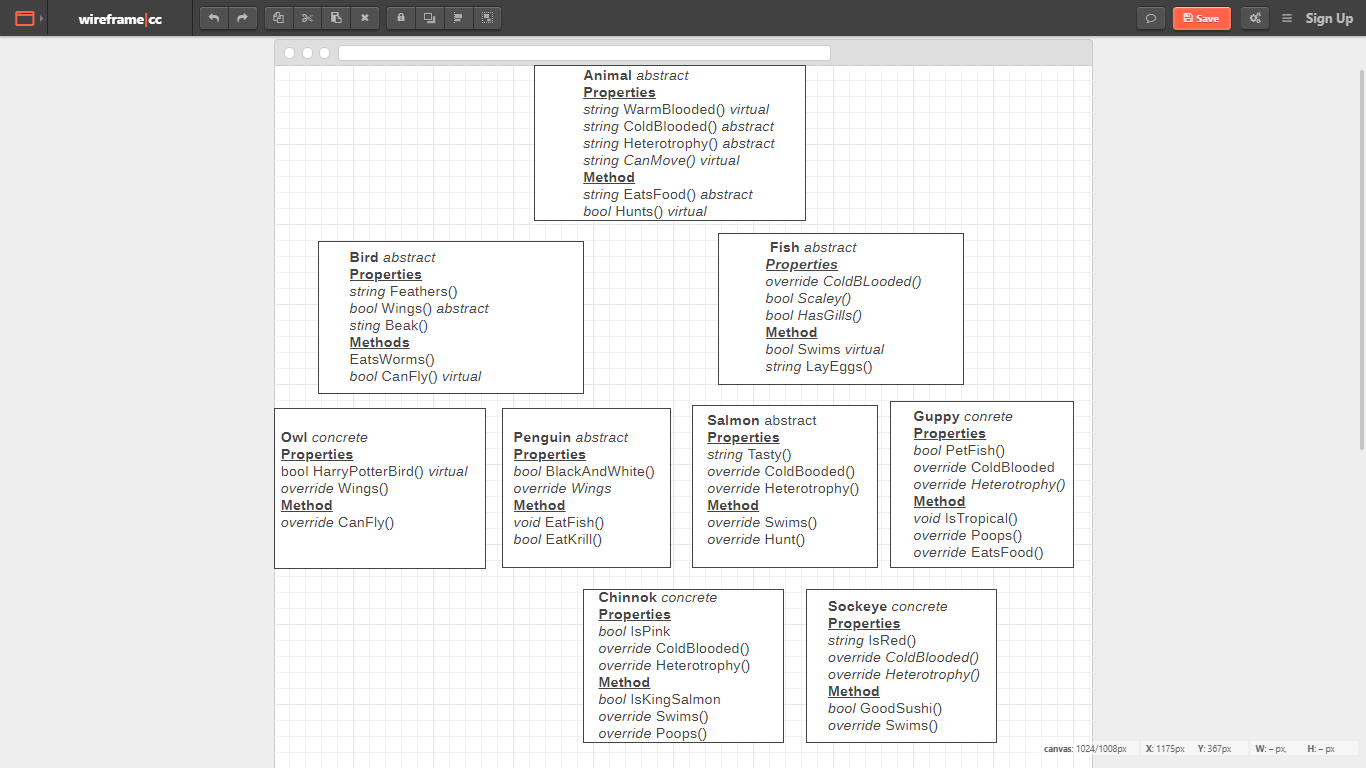
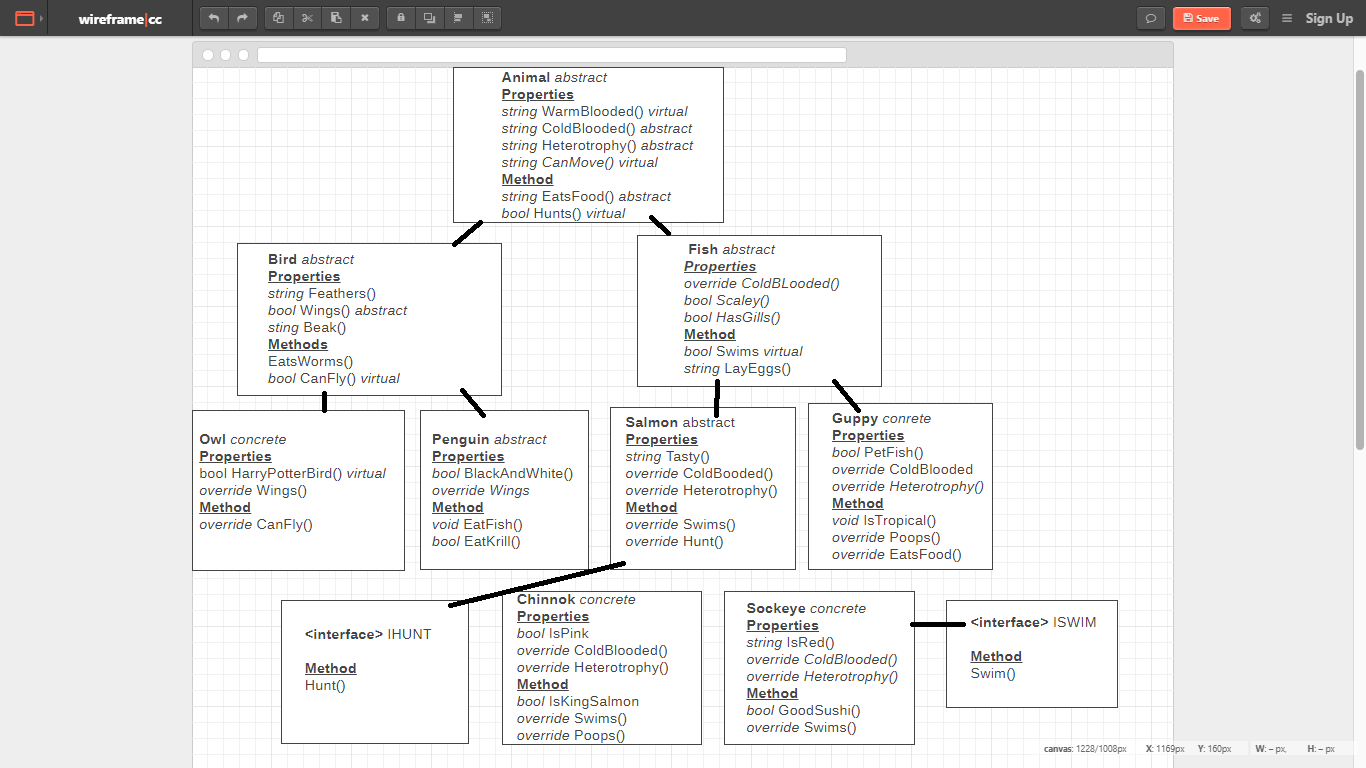
added interfaces, concrete animal

Changed region(s): [[0.123, 0.0312, 0.7994, 0.9688], [0.9839, 0.0938, 1.0, 0.5938], [0.2152, 0.8125, 0.3075, 0.9062]]

diff --git a/Zoo/Zoo/Class/Guppy.cs b/Zoo/Zoo/Class/Guppy.cs
@@ -1,28 +1,40 @@
 using System;
 using System.Collections.Generic;
 using System.Text;
+using Zoo.Interfaces;
 
 namespace Zoo.Class
 {
-    public class Guppy : Animal
+    public class Guppy : Animal, ISwim
     {
         public bool PetFish { get; set; }
         public override string ColdBlooded { get; set; }
-        public override string Heterotrophy { get => throw new NotImplementedException(); set => throw new NotImplementedException(); }
+        public override string Heterotrophy { get; set; }
 
         public void IsTropical()
         {
             Console.WriteLine("Guppy's are a tropical fish");
         }
 
-        public override bool Poops()
+        public override void Poops()
         {
-            return base.Poops();
+            return;
         }
 
         public override string EatsFood()
         {
             return base.EatsFood();
+        }
+
+        public override void CanLive()
+        {
+            return;
+
+        }
+        public bool Swim(ISwim swim)
+        {
+            return true;
+
         }
     }
 }

diff --git a/Zoo/Zoo/Class/AfricanPenguin.cs b/Zoo/Zoo/Class/AfricanPenguin.cs
@@ -5,20 +5,14 @@ using Zoo.Interfaces;
 
 namespace Zoo.Class
 {
-    public class Sockeye : Fish, ISwim, IHunt
+    class AfricanPenguin : Animal, ISwim
     {
-        public string IsRed { get; set; }
         public override string ColdBlooded { get; set; }
-        public override string Heterotrophy{ get; set; }
+        public override string Heterotrophy { get; set; }
 
         public override void CanLive()
         {
-            throw new NotImplementedException();
-        }
-
-        public bool GoodSushi()
-        {
-            return true;
+            return;
         }
 
         public override void Poops()
@@ -29,8 +23,7 @@ namespace Zoo.Class
         public bool Swim(ISwim swim)
         {
             return true;
-        
+
         }
     }
-
 }

diff --git a/Zoo/Zoo/Class/Chinook.cs b/Zoo/Zoo/Class/Chinook.cs
@@ -1,10 +1,11 @@
 using System;
 using System.Collections.Generic;
 using System.Text;
+using Zoo.Interfaces;
 
 namespace Zoo.Class
 {
-    public class Chinook : Fish
+    public class Chinook : Fish, IHunt
     {
         public bool IsPink { get; set; }
         public override string ColdBlooded { get; set; }
@@ -20,9 +21,21 @@ namespace Zoo.Class
             return base.Swims();
         }
 
-        public override bool Poops()
+        public override void Poops()
         {
-            return base.Poops();
+            return;
         }
+
+
+        public override void CanLive()
+        {
+            return;
+        }
+
+        public override bool Hunt()
+        {
+            return base.Hunt();
+        }
+
     }
 }

diff --git a/Zoo/Zoo/Class/Fish.cs b/Zoo/Zoo/Class/Fish.cs
@@ -1,10 +1,11 @@
 using System;
 using System.Collections.Generic;
 using System.Text;
+using Zoo.Interfaces;
 
 namespace Zoo.Class
 {
-    public abstract class Fish : Animal
+    public abstract class Fish : Animal, IHunt
     {
         public bool Scaley { get; set; }
         public bool HasTail { get; set; }
@@ -18,6 +19,11 @@ namespace Zoo.Class
         public string LaysEggs()
         {
             return "I lay eggs";
+        }
+
+        public override bool Hunt()
+        {
+            return base.Hunt();
         }
     }
 }

diff --git a/Zoo/Zoo/Class/Animal.cs b/Zoo/Zoo/Class/Animal.cs
@@ -12,7 +12,7 @@ namespace Zoo.Class
         public virtual string CanMove { get; set; }
 
 
-        public virtual string  EatsFood()
+        public virtual string EatsFood()
         {
             return "I can eat food";
         }
@@ -23,10 +23,9 @@ namespace Zoo.Class
             return true;
         }
 
-        public virtual bool Poops()
-        {
-            return true;
+        public abstract void Poops();
 
-        }
+        public abstract void CanLive();
+
     }
 }

diff --git a/Zoo/Zoo/Class/Penguin.cs b/Zoo/Zoo/Class/Penguin.cs
@@ -7,7 +7,7 @@ namespace Zoo.Class
     public abstract class Penguin : Bird
     {
         public bool BlackAndWhite { get; set; }
-        public override bool Wings { get => throw new NotImplementedException(); set => throw new NotImplementedException(); }
+        public override bool Wings { get; set; }
 
         public void EatFish()
         {

diff --git a/Zoo/Zoo/Program.cs b/Zoo/Zoo/Program.cs
@@ -31,6 +31,7 @@ namespace Zoo
             Console.WriteLine($"Chinook fish can ingest food {chinook.Heterotrophy}");
             Console.WriteLine($"Chinook fish have a tail { chinook.HasTail }");
 
+            AfricanPenguin africanpenguin = new AfricanPenguin();
 
 
 

diff --git a/Zoo/ZooTest/UnitTest1.cs b/Zoo/ZooTest/UnitTest1.cs
@@ -62,5 +62,11 @@ namespace ZooTest
             Assert.True(sockeye.Swims());
         
         }
+
+        [Fact]
+        public void AfricanPenguinIsAnimal()
+        {
+            AfricanPe
+        }
     }
 }

diff --git a/Zoo/Zoo/Interfaces/ISwim.cs b/Zoo/Zoo/Interfaces/ISwim.cs
@@ -4,10 +4,8 @@ using System.Text;
 
 namespace Zoo.Interfaces
 {
-    interface ISwim
+    public interface ISwim
     {
-
-        bool Swim();
         bool Swim(ISwim swim);
     }
 }

diff --git a/Zoo/Zoo/Class/Owl.cs b/Zoo/Zoo/Class/Owl.cs
@@ -17,9 +17,8 @@ namespace Zoo.Class
         public override bool CanFly()
         {
             return true;
+
         }
-
-
     }
 }
             
